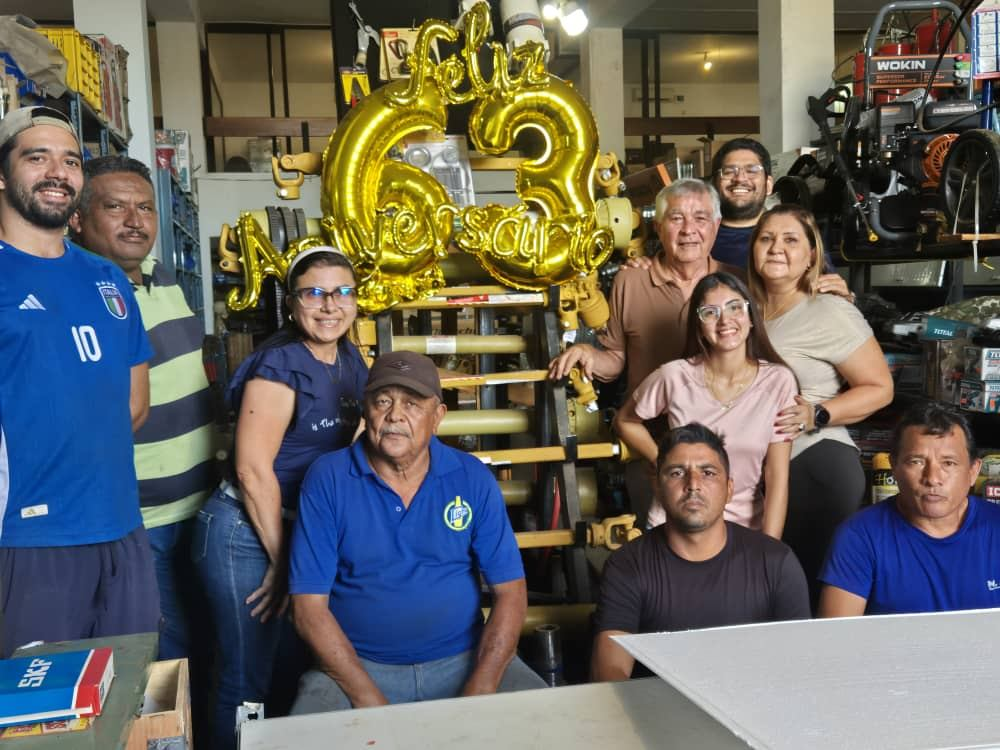
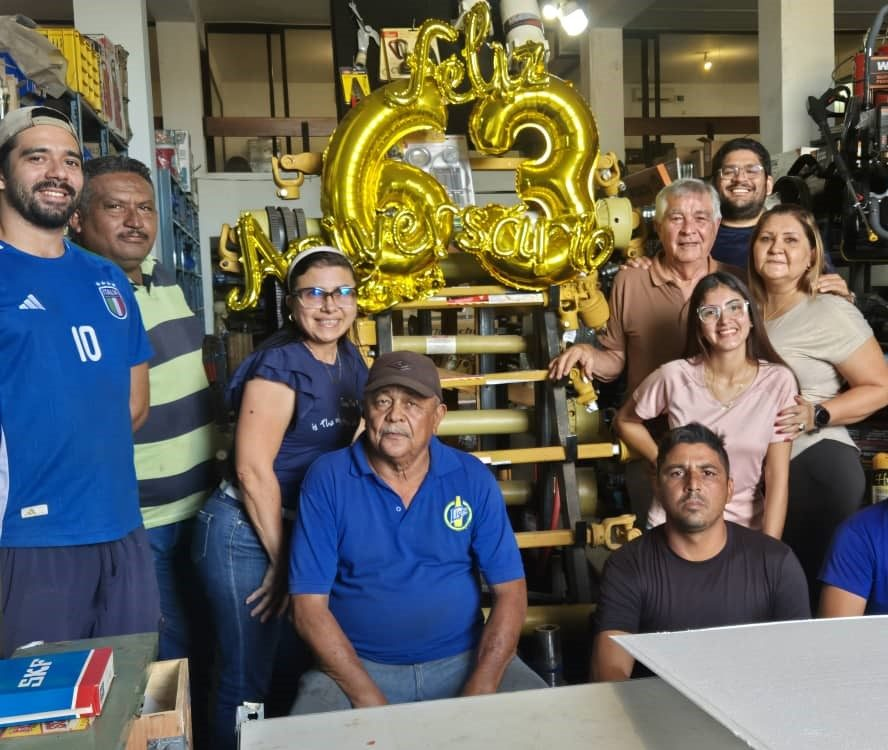
Revisión de seguridad (CSP, cabeceras, producción) y fotos reales en Nuestra historia
- Política de contenido con nonce; sin X-Powered-By; manejadores en línea pasados a Alpine
- /panel lleva al cliente a sus pedidos; «Acceso del personal» solo para visitantes
- Foto nueva del equipo y una foto real en cada momento de la trayectoria
- 140 pruebas aprobadas

diff --git a/resources/views/nosotros.blade.php b/resources/views/nosotros.blade.php
@@ -5,11 +5,12 @@
     // Línea de vida (reseña histórica del Capítulo I). Cuando se conozcan los años exactos de la
     // importación desde Brasil y de la representación exclusiva, reemplaza «Oficio» y «Alianzas» por el año.
     $hitos = [
-        ['1963', 'Fundación', 'Nace Inversiones Campagna, una empresa familiar al servicio del productor llanero.'],
-        ['Oficio', 'Importación desde Brasil', 'Traemos repuestos y equipos difíciles de conseguir en el país.'],
-        ['Alianzas', 'Agente autorizado exclusivo', 'Representamos en Venezuela a Marchesan Tatu, Colombo Aemco, Vicon y Lumagi.'],
-        ['2024', 'Ahora somos Rialto 7', 'Nuevo nombre e imagen, con los valores de siempre.'],
-        [(string) now()->year, 'Catálogo en línea', 'Existencias, precios y cotizaciones desde la finca.'],
+        // [año, título, texto, foto] (fotos reales de la empresa en public/img/portada)
+        ['1963', 'Fundación', 'Nace Inversiones Campagna, una empresa familiar al servicio del productor llanero.', 'sede-fachada.jpg'],
+        ['Oficio', 'Importación desde Brasil', 'Traemos repuestos y equipos difíciles de conseguir en el país.', 'historia-importacion.jpg'],
+        ['Alianzas', 'Agente autorizado exclusivo', 'Representamos en Venezuela a Marchesan Tatu, Colombo Aemco, Vicon y Lumagi.', 'historia-recepcion.jpg'],
+        ['2024', 'Ahora somos Rialto 7', 'Nuevo nombre e imagen, con los valores de siempre.', 'historia-familia.jpg'],
+        [(string) now()->year, 'Catálogo en línea', 'Existencias, precios y cotizaciones desde la finca.', 'campo-1.webp'],
     ];
     // Pilares: los valores que la reseña atribuye a la empresa desde su fundación
     $pilares = [
@@ -114,9 +115,11 @@
     {{-- Tarjetas: se deslizan con el dedo, las flechas o los años --}}
     <ol x-ref="pista" @scroll.debounce.120ms="seguir()" tabindex="0" aria-label="Momentos de nuestra historia"
         class="-mx-4 mt-6 flex snap-x snap-mandatory gap-4 overflow-x-auto scroll-px-4 px-4 pb-4 [scrollbar-width:none] sm:-mx-6 sm:scroll-px-6 sm:px-6 lg:mx-0 lg:scroll-px-0 lg:px-0 [&::-webkit-scrollbar]:hidden">
-        @foreach($hitos as $k => [$cuando, $titulo, $texto])
-            <li class="lobulo panel-tapa flex w-[82%] shrink-0 snap-start flex-col p-6 pt-8 transition-[border-color,box-shadow] duration-300 sm:w-[46%] lg:w-[calc((100%-2rem)/3)]"
+        @foreach($hitos as $k => [$cuando, $titulo, $texto, $foto])
+            <li class="lobulo panel-tapa flex w-[82%] shrink-0 snap-start flex-col overflow-hidden p-6 pt-0 transition-[border-color,box-shadow] duration-300 sm:w-[46%] lg:w-[calc((100%-2rem)/3)]"
                 :class="i === {{ $k }} && '!border-tierra shadow-[0_0_0_1px_var(--color-tierra)]'">
+                <img src="{{ asset('img/portada/' . $foto) }}" alt="{{ $titulo }}" width="1000" height="750" loading="lazy"
+                     class="-mx-6 mb-5 aspect-[4/3] w-[calc(100%+3rem)] max-w-none object-cover">
                 <span class="font-rotulo text-lg self-start px-3 py-1 font-extrabold cifra transition-colors duration-300"
                       :class="i === {{ $k }} ? 'bg-sol text-tinta' : 'bg-agua-honda text-tinta-suave'">{{ $cuando }}</span>
                 <h3 class="mt-4 font-rotulo text-2xl font-extrabold uppercase leading-tight">{{ $titulo }}</h3>

diff --git a/resources/views/layouts/app.blade.php b/resources/views/layouts/app.blade.php
@@ -59,7 +59,7 @@
     <meta name="csrf-token" content="{{ csrf_token() }}">
     <meta name="theme-color" content="#0d5192">
     {{-- Con JavaScript, las secciones entran animadas; sin él, todo se ve desde el principio --}}
-    <script>document.documentElement.classList.add('js')</script>
+    <script nonce="{{ \Illuminate\Support\Facades\Vite::cspNonce() }}">document.documentElement.classList.add('js')</script>
     <title>@yield('titulo', 'Catálogo') · Inversiones Rialto 7</title>
     @include('partials.meta')
     {{-- El logo del sitio es blanco sobre transparente; la pestaña usa la versión con fondo verde --}}
@@ -271,7 +271,7 @@
                     <li><a href="{{ route('contacto') }}" class="hover:text-white hover:underline">Contacto</a></li>
                     <li><a href="{{ route('legal.privacidad') }}" class="hover:text-white hover:underline">Privacidad</a></li>
                     <li><a href="{{ route('legal.terminos') }}" class="hover:text-white hover:underline">Términos de venta</a></li>
-                    <li class="pt-2"><a href="{{ route('panel') }}" class="inline-flex items-center gap-2 font-bold text-sol hover:underline"><x-icono nombre="usuario-check" class="size-4" /> Acceso del personal</a></li>
+                    @guest<li class="pt-2"><a href="{{ route('panel') }}" class="inline-flex items-center gap-2 font-bold text-sol hover:underline"><x-icono nombre="usuario-check" class="size-4" /> Acceso del personal</a></li>@endguest
                 </ul>
             </nav>
             <div>
@@ -295,7 +295,7 @@
 <div id="aviso" role="status" aria-live="polite"
      class="toast flex w-[min(92vw,30rem)] items-center gap-3 bg-tinta py-2 pl-5 pr-2 text-[0.9375rem] text-white data-[tipo=error]:bg-coral-tinta">
     <span data-texto class="flex-1 [&_a]:text-sol"></span>
-    <button type="button" class="grid size-9 place-items-center hover:bg-white/10" onclick="this.parentElement.removeAttribute('data-visible')" aria-label="Cerrar aviso"><x-icono nombre="x" class="size-4" /></button>
+    <button type="button" class="grid size-9 place-items-center hover:bg-white/10" x-data @click="$el.parentElement.removeAttribute('data-visible')" aria-label="Cerrar aviso"><x-icono nombre="x" class="size-4" /></button>
 </div>
 
 @stack('scripts')

diff --git a/app/Http/Middleware/CabecerasSeguridad.php b/app/Http/Middleware/CabecerasSeguridad.php
@@ -4,6 +4,7 @@ namespace App\Http\Middleware;
 
 use Closure;
 use Illuminate\Http\Request;
+use Illuminate\Support\Facades\Vite;
 use Symfony\Component\HttpFoundation\Response;
 
 /**
@@ -14,7 +15,29 @@ class CabecerasSeguridad
 {
     public function handle(Request $request, Closure $next): Response
     {
+        // Un nonce por petición: solo se ejecutan los scripts del portal que lo llevan (Vite lo agrega a los suyos)
+        Vite::useCspNonce();
+
         $respuesta = $next($request);
+
+        // Política de contenido: todo se sirve desde el propio portal. Alpine.js necesita 'unsafe-eval'
+        // para sus expresiones; los formularios de contacto pueden abrir WhatsApp.
+        $nonce = Vite::cspNonce();
+        $respuesta->headers->set('Content-Security-Policy', implode('; ', [
+            "default-src 'self'",
+            "script-src 'self' 'nonce-{$nonce}' 'unsafe-eval'",
+            "style-src 'self' 'unsafe-inline'",
+            "img-src 'self' data: blob:",
+            "font-src 'self' data:",
+            "connect-src 'self'",
+            "form-action 'self' https://wa.me https://api.whatsapp.com",
+            "frame-ancestors 'self'",
+            "base-uri 'self'",
+            "object-src 'none'",
+        ]));
+        // No se anuncia la versión de PHP
+        $respuesta->headers->remove('X-Powered-By');
+        header_remove('X-Powered-By');
 
         // El navegador no adivina tipos de archivo (evita ejecutar como script algo subido como imagen)
         $respuesta->headers->set('X-Content-Type-Options', 'nosniff');

diff --git a/resources/views/catalogo/index.blade.php b/resources/views/catalogo/index.blade.php
@@ -124,7 +124,7 @@
                         @if(is_string($valor))<input type="hidden" name="{{ $nombre }}" value="{{ $valor }}">@endif
                     @endforeach
                     <label for="orden" class="hidden text-sm font-semibold text-tinta-suave sm:block">Ordenar</label>
-                    <select id="orden" name="orden" class="campo !min-h-11 !w-auto !py-0 !text-[0.9375rem]" onchange="this.form.submit()">
+                    <select id="orden" name="orden" class="campo !min-h-11 !w-auto !py-0 !text-[0.9375rem]" x-data @change="$el.form.submit()">
                         @foreach(\App\Http\Controllers\CatalogoController::ORDENES as $valor => $texto)
                             <option value="{{ $valor }}" @selected(($filtros['orden'] ?? 'disponibles') === $valor)>{{ $texto }}</option>
                         @endforeach
@@ -175,7 +175,7 @@
 @endsection
 
 @push('scripts')
-<script>
+<script nonce="{{ \Illuminate\Support\Facades\Vite::cspNonce() }}">
     // Sugerencias del buscador: consulta al escribir 2 letras o más; Enter sin elegir busca normal
     function sugerencias(url) {
         return {

diff --git a/tests/Feature/SeguridadTest.php b/tests/Feature/SeguridadTest.php
@@ -234,4 +234,19 @@ class SeguridadTest extends TestCase
         $this->assertSame($formula, $hoja->getCell('D2')->getValue());
         $this->assertSame(DataType::TYPE_NUMERIC, $hoja->getCell('J2')->getDataType());  // Los montos siguen siendo números
     }
+
+    public function test_las_paginas_llevan_politica_de_contenido_y_no_anuncian_php(): void
+    {
+        $respuesta = $this->get(route('inicio'))->assertOk();
+
+        $csp = $respuesta->headers->get('Content-Security-Policy');
+        $this->assertStringContainsString("default-src 'self'", $csp);
+        $this->assertStringContainsString("object-src 'none'", $csp);
+        $this->assertMatchesRegularExpression("/script-src 'self' 'nonce-[A-Za-z0-9]+'/", $csp);
+        $this->assertFalse($respuesta->headers->has('X-Powered-By'));
+
+        // El script en línea de la página lleva el nonce de la política
+        preg_match("/'nonce-([A-Za-z0-9]+)'/", $csp, $m);
+        $respuesta->assertSee('nonce="' . $m[1] . '"', false);
+    }
 }

diff --git a/routes/web.php b/routes/web.php
@@ -79,7 +79,7 @@ Route::middleware('guest')->group(function () {
 Route::post('/salir', [LoginController::class, 'destroy'])->middleware('auth')->name('logout');
 
 // Acceso del personal: direcciones fáciles de recordar que llevan al panel de gestión
-Route::redirect('/panel', '/gestion/tablero')->name('panel');
+Route::get('/panel', fn () => redirect()->route(auth()->user()?->rol === \App\Models\Usuario::ROL_CLIENTE ? 'cuenta.pedidos' : 'gestion.tablero'))->name('panel');
 Route::redirect('/gestion', '/gestion/tablero');
 Route::redirect('/admin', '/gestion/tablero');
 

diff --git a/resources/views/gestion/pedidos/create.blade.php b/resources/views/gestion/pedidos/create.blade.php
@@ -111,7 +111,7 @@
 @endsection
 
 @push('scripts')
-<script>
+<script nonce="{{ \Illuminate\Support\Facades\Vite::cspNonce() }}">
     // Mismo cálculo que CalculadoraComercial (en centavos; IGTF si paga en dólares, IVA si paga en bolívares); el servidor lo vuelve a hacer al guardar
     function mostrador(catalogo, p, clienteInicial, previas, urlClientes) {
         const formato = (n) => n.toLocaleString('es-VE', { minimumFractionDigits: 2, maximumFractionDigits: 2 });

diff --git a/resources/views/carrito/index.blade.php b/resources/views/carrito/index.blade.php
@@ -142,7 +142,7 @@
 @endsection
 
 @push('scripts')
-<script>
+<script nonce="{{ \Illuminate\Support\Facades\Vite::cspNonce() }}">
     // Al escribir una cantidad, se guarda sola al salir del campo o con Enter (sin botón "Actualizar")
     document.querySelectorAll('form[data-cantidad]').forEach(function (form) {
         const campo = form.querySelector('input[name="cantidad"]');

diff --git a/resources/views/gestion/tablero.blade.php b/resources/views/gestion/tablero.blade.php
@@ -120,7 +120,7 @@
 
 @push('scripts')
 @vite('resources/js/graficos.js')
-<script>
+<script nonce="{{ \Illuminate\Support\Facades\Vite::cspNonce() }}">
 // Los módulos (gráficos) corren antes de DOMContentLoaded: aquí window.Chart ya existe si cargó
 document.addEventListener('DOMContentLoaded', function () {
     const URL_DATOS = @json(route('gestion.tablero.datos'));

diff --git a/resources/views/catalogo/show.blade.php b/resources/views/catalogo/show.blade.php
@@ -133,7 +133,7 @@
 @endsection
 
 @push('scripts')
-<script>
+<script nonce="{{ \Illuminate\Support\Facades\Vite::cspNonce() }}">
     // Stock en tiempo real: consulta cada 30 s, solo con la pestaña visible
     (function () {
         const textos = { disponible: n => 'Disponibles: ' + n, bajo: n => 'Quedan ' + n, agotado: () => 'Agotado' };

diff --git a/README.md b/README.md
@@ -627,3 +627,24 @@ Total al 28/10/2026: **136 pruebas, 588 verificaciones**, todas aprobadas.
 
 Total al 28/10/2026: **139 pruebas, 608 verificaciones**, todas aprobadas.
 
+## 20. Revisión de seguridad y fotos de la historia (28/10/2026)
+
+- **Dependencias:** \`composer audit\` y \`npm audit\` sin vulnerabilidades conocidas.
+- **Cabeceras** (\`CabecerasSeguridad\`):
+  - política de contenido (CSP) con nonce por petición: solo se ejecutan los scripts del portal;
+  - formularios hacia el propio portal o WhatsApp; \`object-src 'none'\`;
+  - se quitó \`X-Powered-By\`; siguen HSTS, nosniff, X-Frame-Options, Referrer-Policy y Permissions-Policy;
+  - los manejadores en línea (\`onclick\`, \`onchange\`) pasaron a Alpine.
+- **Entorno público:** \`APP_ENV=production\`, \`APP_DEBUG=false\`, \`LOG_LEVEL=warning\`.
+- **Archivos sensibles:** \`.env\`, \`.git\`, \`vendor\`, \`storage\` y logs no son accesibles (404). Las cookies son \`secure\`, \`httponly\` y \`samesite=lax\`.
+- **Código revisado:**
+  - las salidas sin escapar llevan \`e()\` o \`JSON_HEX_TAG\`;
+  - las consultas crudas usan parámetros;
+  - las subidas validan tipo y tamaño; los comprobantes se guardan en el disco privado.
+- **/panel:** un cliente con sesión va a sus pedidos; el enlace «Acceso del personal» se muestra solo a visitantes.
+- **Nuestra historia:**
+  - foto nueva del equipo;
+  - cada momento de la trayectoria lleva una foto real: la sede, el contenedor de Tatu, la recepción de una rotativa y el equipo con la familia.
+
+Total al 28/10/2026: **140 pruebas, 614 verificaciones**, todas aprobadas.
+
